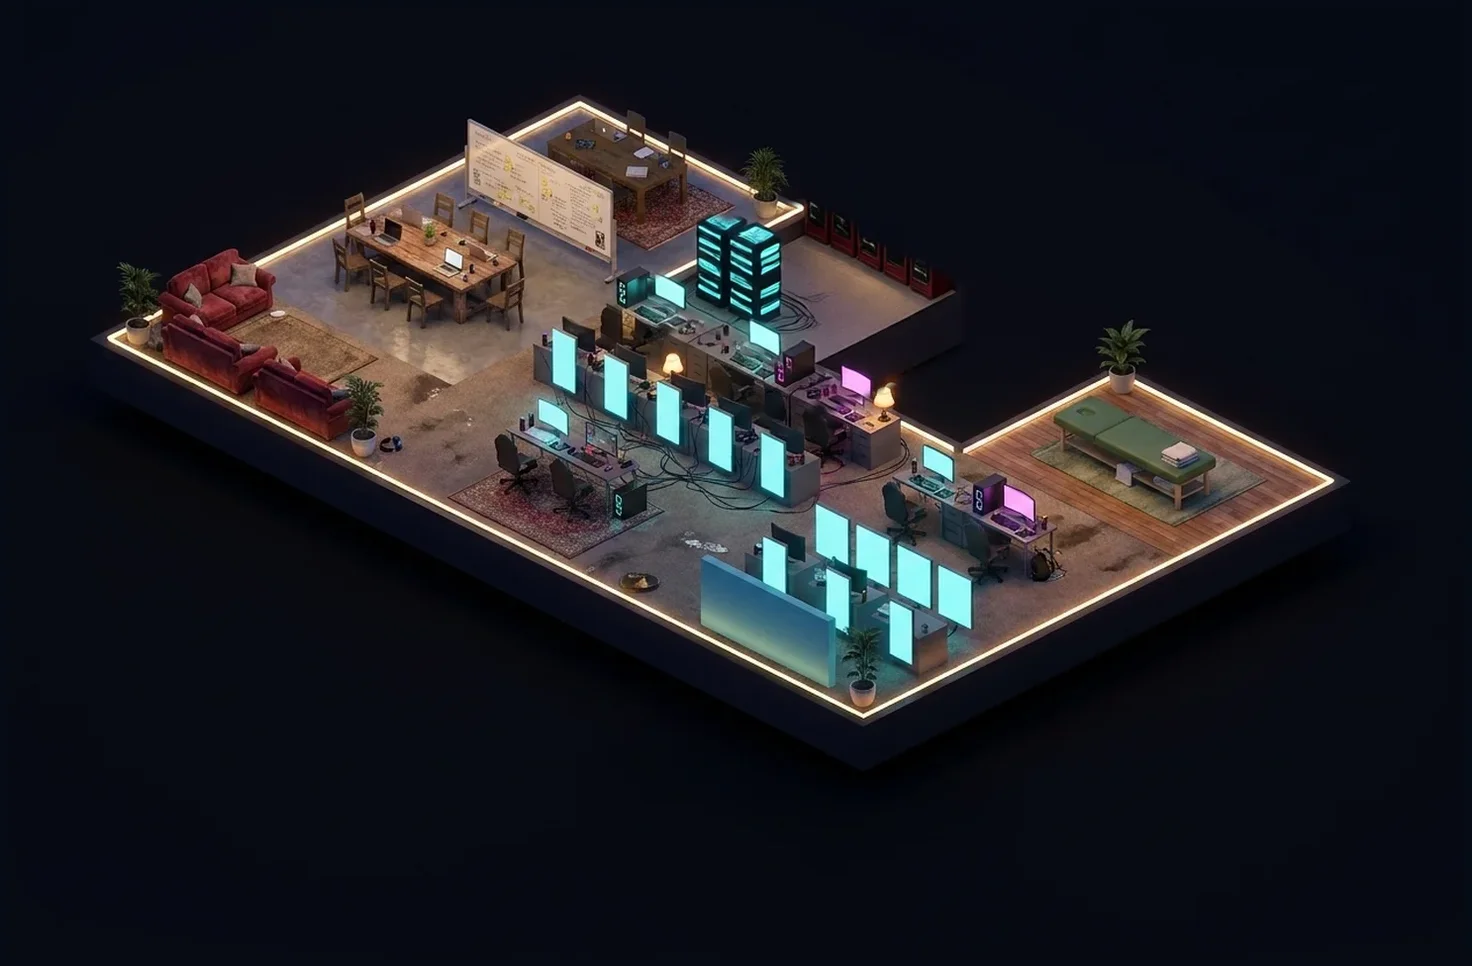
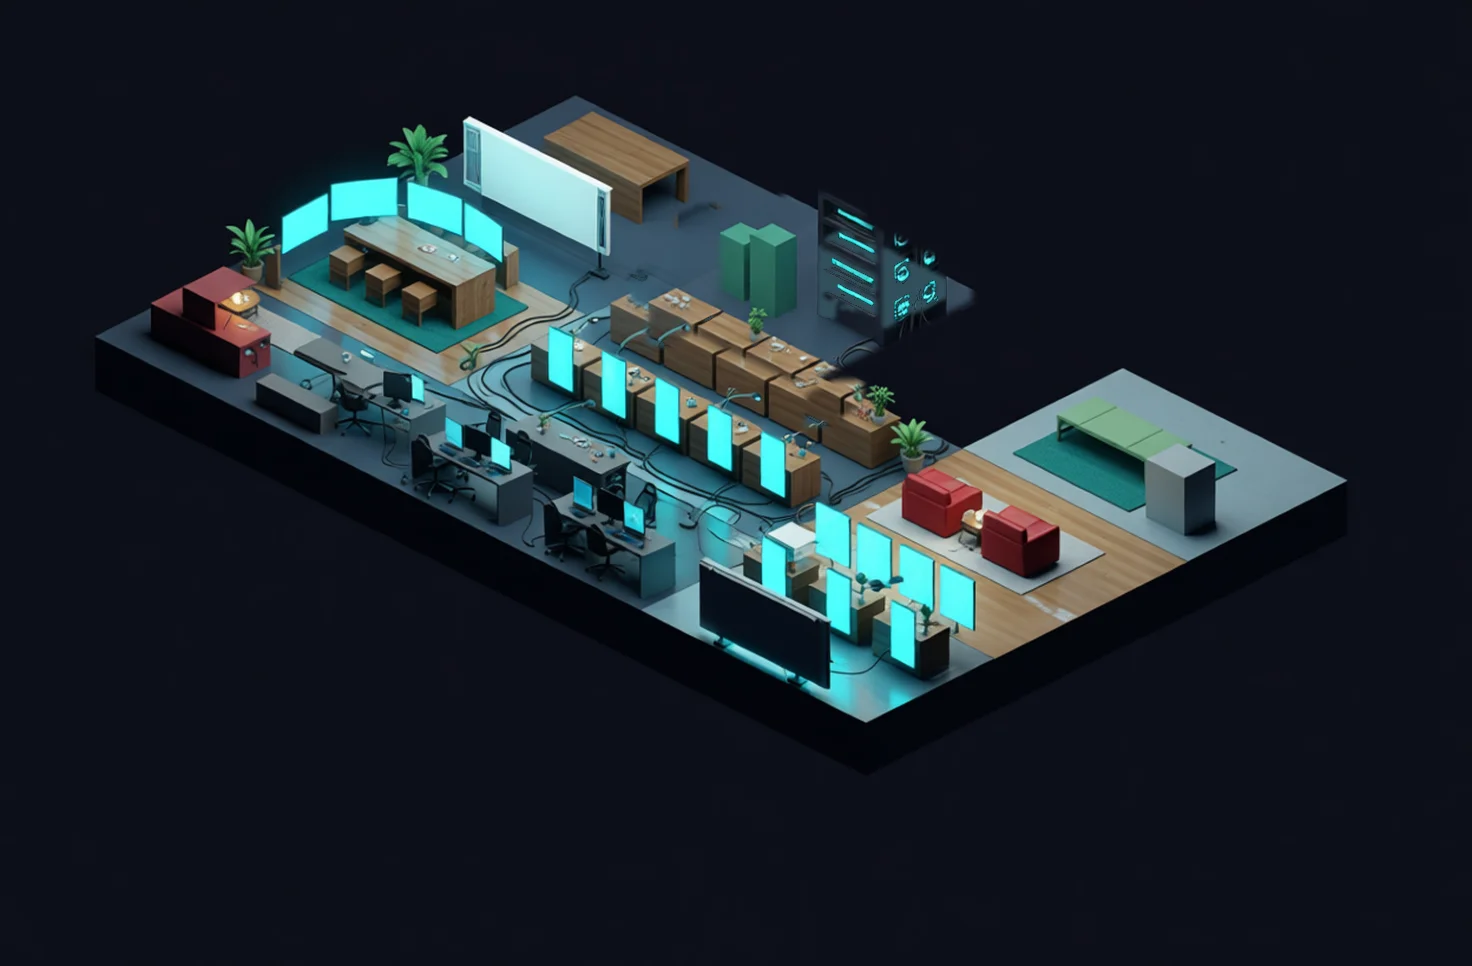
Office paint v3 (beauty-selected) + sprite-mode foundations
Paint v3 (subagent, 32 Ludo gens): border-free guides + richer prompt,
IoU gate 0.86 with selection on detail density among survivors. Base is
dramatically richer (real conference furniture, curved monitor wall,
per-zone floors, cable runs, plants); runner-up bases saved under
assets/office/style/candidates for owner review. Key prompt lesson:
the open-roofless-dollhouse-cutaway / no-walls clause is required or
the model grows walls and windows; per-guide annex prompts with exact
counts beat a shared legend (cross-contamination).

Sprite-mode foundations (owner direction: decompose shell vs items):
- scripts/render_office_guide.py --shell renders a furniture-free
  all-rooms guide (guides/shell.png) - the one-image shell that the
  runtime clips per built state
- web/static/office_sprites.json: furniture sprite manifest (per-type
  prompts, orientations, scale hints, shared style lock) for the
  upcoming sprite generation pass and the layered office renderer

Changed region(s): [[0.0625, 0.0932, 0.9062, 0.7453], [0.2188, 0.528, 0.25, 0.559]]

diff --git a/scripts/render_office_guide.py b/scripts/render_office_guide.py
@@ -18,6 +18,7 @@ Requires Pillow (in the [dev] extras).
 from __future__ import annotations
 
 import json
+import sys
 from pathlib import Path
 
 from PIL import Image, ImageDraw
@@ -112,7 +113,9 @@ class GuideRenderer:
         d.polygon([cs[0], cs[1], lift(cs[1]), lift(cs[0])], fill=mid)
         d.polygon([lift(p) for p in cs], fill=color)
 
-    def render(self, annex_levels: dict[str, int]) -> Image.Image:
+    def render(
+        self, annex_levels: dict[str, int], furniture: bool = True
+    ) -> Image.Image:
         """annex_levels: annex id -> level (0 = absent)."""
         img = Image.new("RGB", (self.w, self.h), GROUND)
         d = ImageDraw.Draw(img)
@@ -161,15 +164,16 @@ class GuideRenderer:
                     fill=WALL_FACE,
                 )
 
-        # Furniture.
-        for r in rooms:
-            furn = r.get("furniture")
-            if furn is None and "furniture_by_level" in r:
-                level = annex_levels.get(r["id"], 0)
-                key = "3" if level >= 3 else "1"
-                furn = r["furniture_by_level"].get(key, [])
-            for f in furn or []:
-                self.box(d, r, f)
+        # Furniture (skipped for sprite-mode shell guides).
+        if furniture:
+            for r in rooms:
+                furn = r.get("furniture")
+                if furn is None and "furniture_by_level" in r:
+                    level = annex_levels.get(r["id"], 0)
+                    key = "3" if level >= 3 else "1"
+                    furn = r["furniture_by_level"].get(key, [])
+                for f in furn or []:
+                    self.box(d, r, f)
         return img
 
 
@@ -177,6 +181,18 @@ def main() -> None:
     plan = load_plan()
     OUT_DIR.mkdir(parents=True, exist_ok=True)
     rend = GuideRenderer(plan)
+
+    if "--shell" in sys.argv:
+        # Sprite-mode shell guide: EVERY room + annex floor, NO furniture.
+        # The runtime clips unbuilt annex floors away and places furniture
+        # as individual sprites, so the shell is one furniture-free image.
+        img = rend.render(
+            {a["id"]: 1 for a in plan["annexes"]}, furniture=False
+        )
+        path = OUT_DIR / "shell.png"
+        img.save(path)
+        print(f"wrote {path} ({rend.w}x{rend.h})")
+        return
 
     rend.render({}).save(OUT_DIR / "base.png")
     print(f"wrote {OUT_DIR / 'base.png'} ({rend.w}x{rend.h})")
